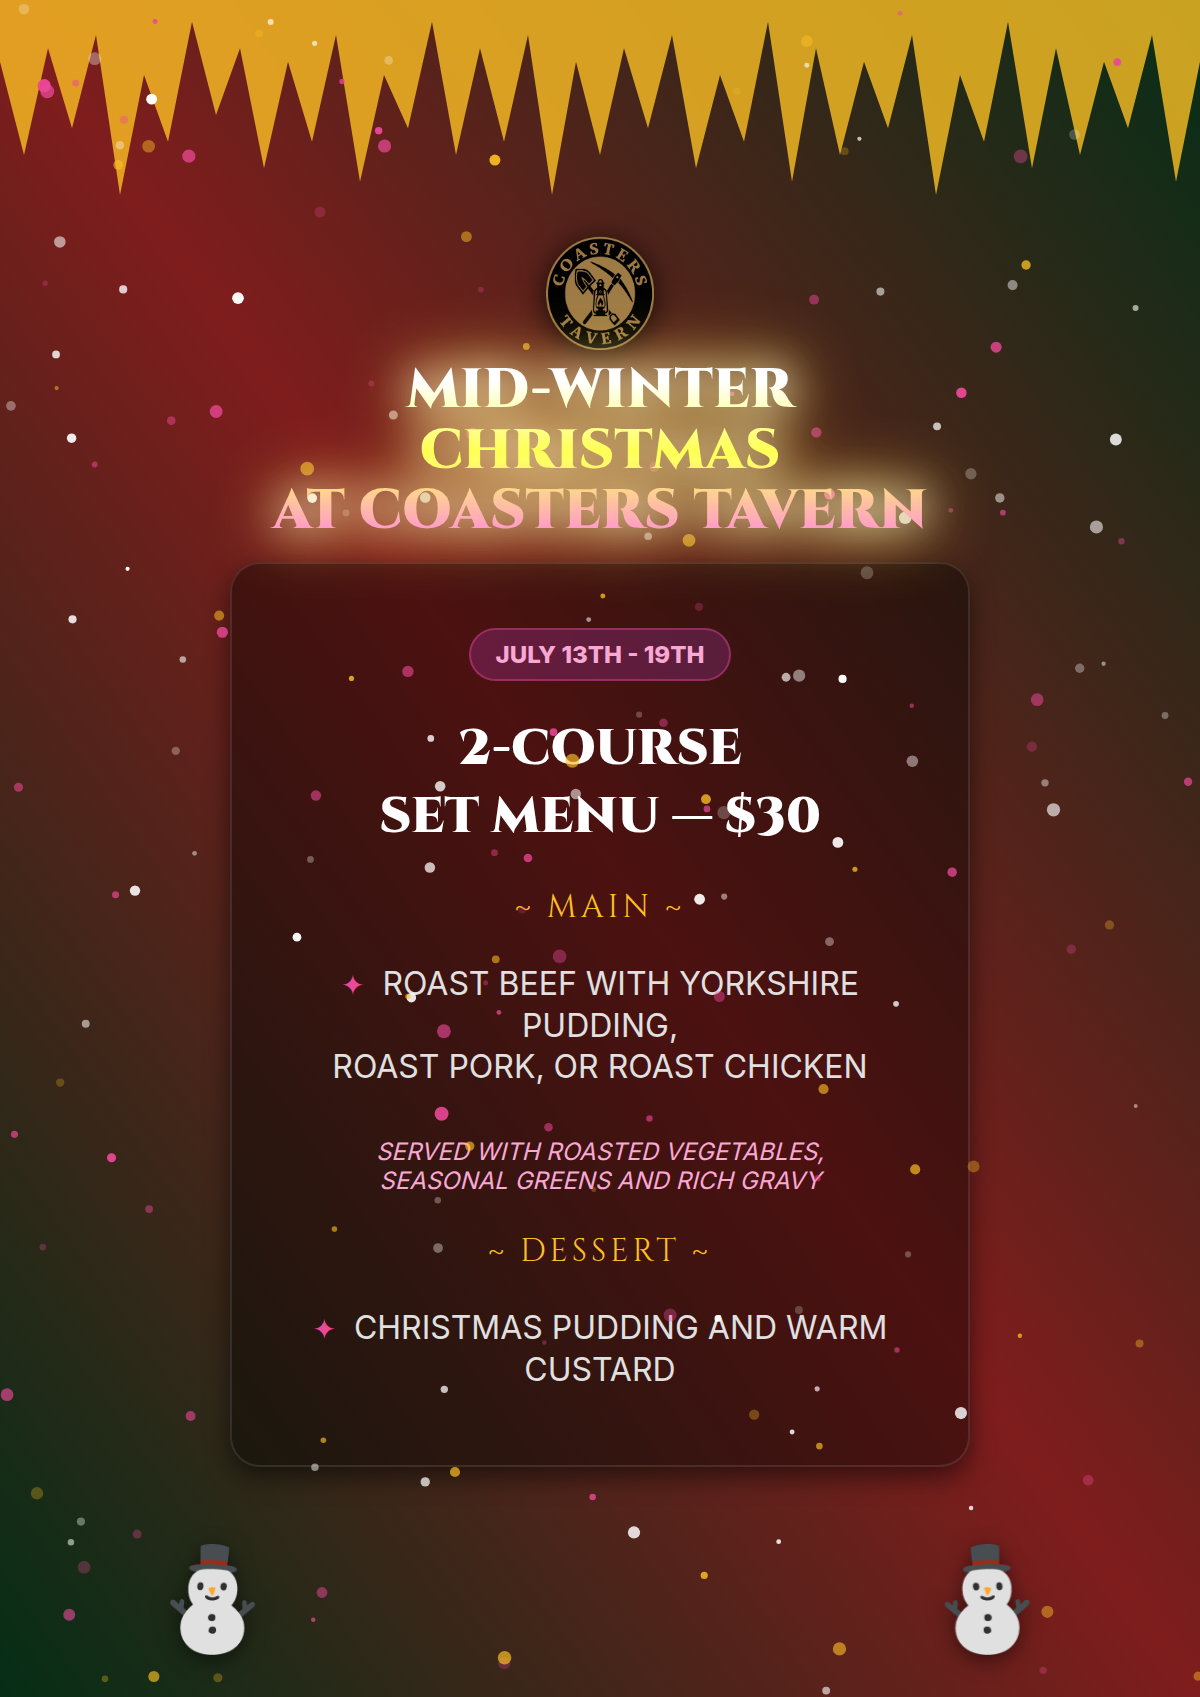
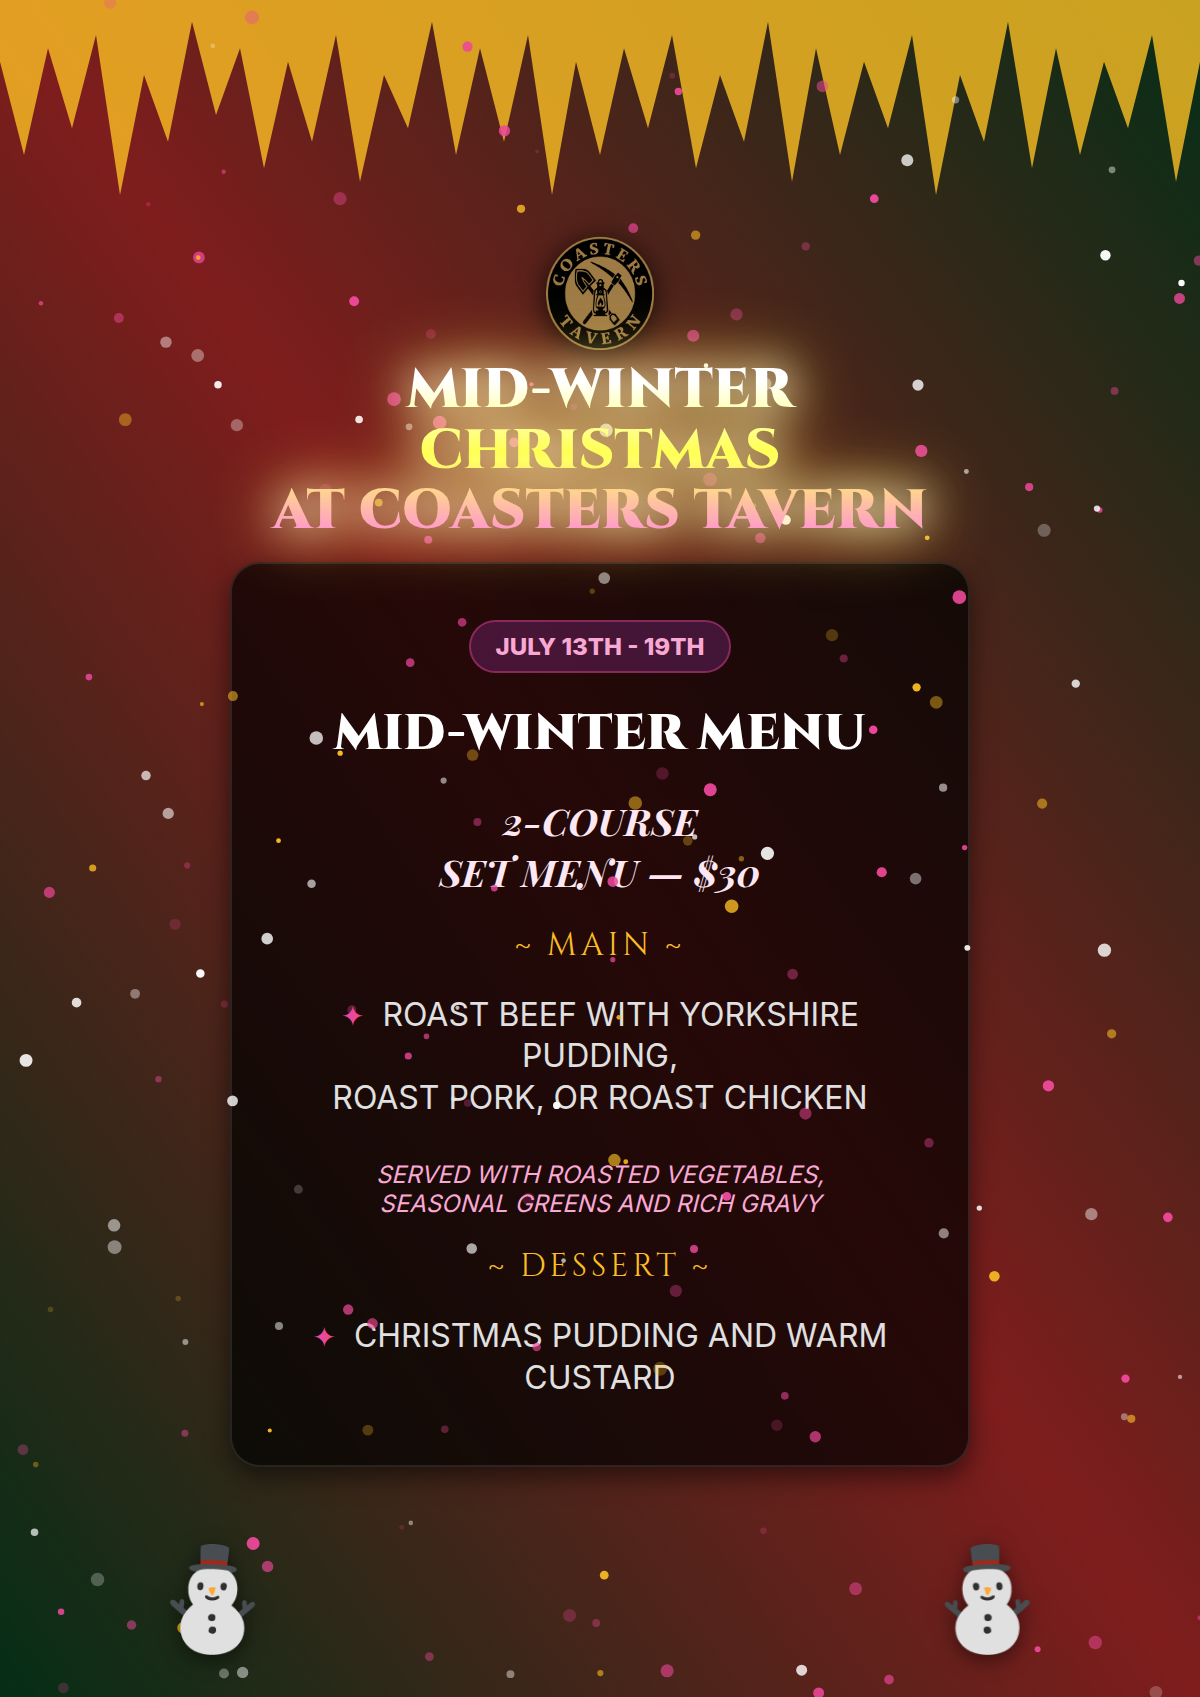
Update poster text, add 30% transparency to backgrounds, and update slide content

diff --git a/mid.html b/mid.html
@@ -158,6 +158,15 @@
             text-transform: uppercase;
             animation: glow-course-title 3s infinite ease-in-out;
         }
+        
+        .small-text {
+            font-size: clamp(14px, 2.5vmin, 30px);
+            font-style: italic;
+            color: #f9a8d4;
+            margin-top: 5px;
+            text-align: center;
+            text-transform: uppercase;
+        }
 
         .date-badge {
             display: inline-block;
@@ -272,11 +281,17 @@
         <!-- Slide 1: Menu -->
         <div class="slide active" id="slide-1">
             <div class="date-badge">JULY 13TH - 19TH</div>
-            <h1>Mid-Winter Christmas Menu</h1>
+            <h1>Mid-Winter Menu</h1>
             <h2>2-Course Set Menu — $30</h2>
+
+            <div class="course-title">~ MAIN ~</div>
             <ul>
-                <li>Choice of Beef with Yorkshire pudding, Roast Pork, or Roast Chicken</li>
-                <li>Served with roasted vegetables, seasonal greens and rich gravy</li>
+                <li>Roast Beef with Yorkshire pudding, Roast Pork, or Roast Chicken</li>
+            </ul>
+            <div class="small-text">served with roasted vegetables, seasonal greens and rich gravy</div>
+
+            <div class="course-title">~ DESSERT ~</div>
+            <ul>
                 <li>Christmas pudding and warm custard</li>
             </ul>
         </div>
@@ -284,24 +299,25 @@
         <!-- Slide 2: Quiz -->
         <div class="slide" id="slide-2">
             <div class="date-badge">WEDNESDAY, 15TH JULY</div>
-            <h1>Mid-Winter Quiz Night</h1>
+            <h1>Mid-Winter Quiz</h1>
             <h2>Assemble Your Sharpest Crew</h2>
             <ul>
                 <li>Starts at 7:00 PM Sharp</li>
-                <li>Bar tabs & craft baskets for winners</li>
+                <li>$190 in vouchers to be won!</li>
                 <li>Prizes for best dressed!</li>
             </ul>
+            <h2 style="margin-bottom: 0;">BOOKINGS ARE ESSENTIAL</h2>
         </div>
 
         <!-- Slide 3: Karaoke -->
         <div class="slide" id="slide-3">
             <div class="date-badge">SATURDAY, 18TH JULY</div>
             <h1>Mid-Winter Karaoke</h1>
-            <h2>Sing Your Heart Out</h2>
+            <h2>Hosted by Mel & Dave</h2>   
             <ul>
+                <li>Vouchers to be won! Every song sung puts you in the draw!</li>
+                <li>Prizes for best Dressed!</li>
                 <li>Commences from 8:00 PM</li>
-                <li>Golden Mic trophies to be won</li>
-                <li>Prizes for best dressed!</li>
             </ul>
         </div>
 
@@ -472,7 +488,7 @@
             progressBar.style.transition = 'none';
             progressBar.style.width = '0%';
             setTimeout(() => {
-                progressBar.style.transition = 'width 60s linear';
+                progressBar.style.transition = 'width 120s linear';
                 progressBar.style.width = '100%';
             }, 50);
         }
@@ -507,7 +523,7 @@
         }
         loadSlideContent();
 
-        setInterval(nextSlide, 60000); // 60 seconds per slide
+        setInterval(nextSlide, 120000); // 120 seconds per slide
         startProgress(); // Initial start
 
         // Snow Confetti Logic

diff --git a/poster_all.html b/poster_all.html
@@ -68,9 +68,10 @@
         <div class="main-heading">Mid-Winter Christmas at Coasters Tavern</div>
         <div class="slide-container">
             <!-- Menu -->
-            <div class="glass-box" style="background: linear-gradient(to top right, #052e16, #7f1d1d, #052e16);">
+            <div class="glass-box" style="background: linear-gradient(to top right, rgba(5,46,22,0.7), rgba(127,29,29,0.7), rgba(5,46,22,0.7));">
                 <div class="date-badge">JULY 13TH - 19TH</div>
-                <h1>2-Course Set Menu — $30</h1>
+                <h1>MID-WINTER MENU</h1>
+                <h2>2-COURSE SET MENU — $30</h2>
                 <div class="course-title">~ MAIN ~</div>
                 <ul>
                     <li>Roast Beef with Yorkshire pudding, <br>Roast Pork, or Roast Chicken</li>
@@ -82,9 +83,9 @@
                 </ul>
             </div>
             <!-- Quiz -->
-            <div class="glass-box" style="background: linear-gradient(to top right, #020617, #1d4ed8, #0f172a);">
+            <div class="glass-box" style="background: linear-gradient(to top right, rgba(2,6,23,0.7), rgba(29,78,216,0.7), rgba(15,23,42,0.7));">
                 <div class="date-badge">WEDNESDAY, 15TH JULY</div>
-                <h1>Mid-Winter Quiz Night</h1>
+                <h1>MID-WINTER QUIZ</h1>
                 <h2>Assemble Your Sharpest Crew</h2>
                 <ul>
                     <li>Starts at 7:00 PM Sharp</li>
@@ -94,9 +95,9 @@
                 <h2 style="margin-bottom: 0;">BOOKINGS ARE ESSENTIAL</h2>
             </div>
             <!-- Karaoke -->
-            <div class="glass-box" style="background: linear-gradient(to top right, #020617, #3b0764, #1e1b4b);">
+            <div class="glass-box" style="background: linear-gradient(to top right, rgba(2,6,23,0.7), rgba(59,7,100,0.7), rgba(30,27,75,0.7));">
                 <div class="date-badge">SATURDAY, 18TH JULY</div>
-                <h1>Mid-Winter Christmas Karaoke</h1>
+                <h1>MID-WINTER KARAOKE</h1>
                 <h2>Hosted by Mel & Dave</h2>   
                 <ul>
                     <li>Vouchers to be won! <br>Every song sung puts you in the draw!</li>

diff --git a/poster_menu.html b/poster_menu.html
@@ -38,7 +38,7 @@
             filter: brightness(1.2) drop-shadow(0 0 20px rgba(255, 255, 255, 0.8)) drop-shadow(0 0 30px rgba(253, 224, 71, 1)); line-height: 1.1;
         }
         .glass-box {
-            background: rgba(0, 0, 0, 0.4); border-radius: 30px;
+            background: rgba(0, 0, 0, 0.7); border-radius: 30px;
             border: 2px solid rgba(255, 255, 255, 0.1); padding: 30px 40px;
             box-shadow: 0 10px 25px rgba(0, 0, 0, 0.5); text-align: center; width: 100%; max-width: 950px; box-sizing: border-box;
             display: flex; flex-direction: column; justify-content: space-evenly; align-items: center;
@@ -62,7 +62,8 @@
         <div class="main-heading">Mid-Winter Christmas <br>at Coasters Tavern</div>
         <div class="glass-box">
             <div class="date-badge">JULY 13TH - 19TH</div>
-            <h1>2-Course <br>Set Menu — $30</h1>
+            <h1>MID-WINTER MENU</h1>
+            <h2>2-COURSE <br>SET MENU — $30</h2>
             
             <div class="course-title">~ MAIN ~</div>
             <ul>
